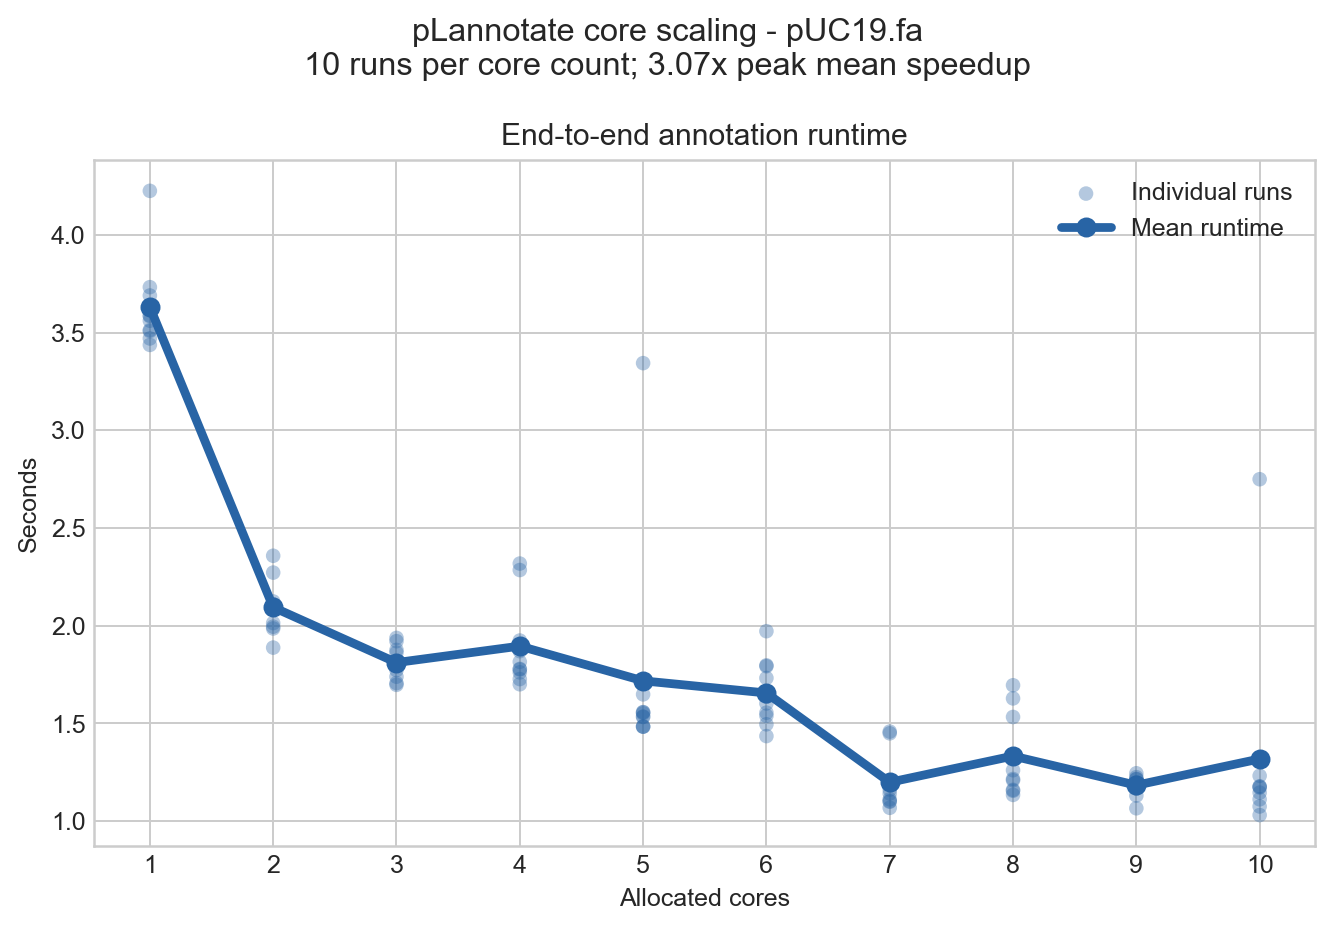
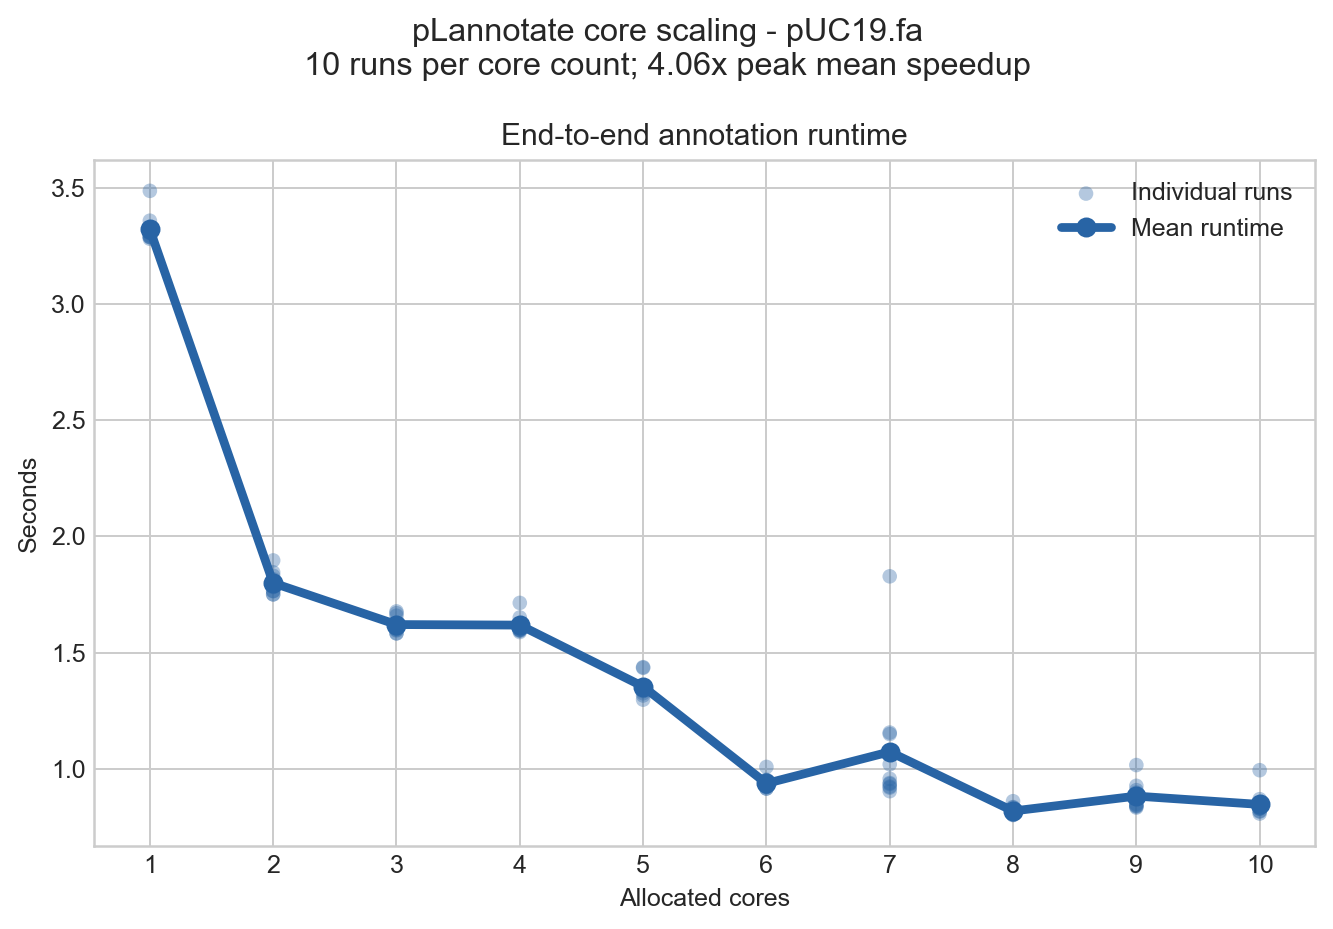
∆ core usage

diff --git a/plannotate/_concurrency.py b/plannotate/_concurrency.py
@@ -2,7 +2,7 @@
 
 import shlex
 from concurrent.futures import ThreadPoolExecutor
-from itertools import cycle, islice, repeat
+from itertools import repeat
 from typing import Any, Callable, TypeVar
 
 Result = TypeVar("Result")
@@ -36,17 +36,31 @@ def parameters_with_threads(
 
 
 def allocate_threads(sources: dict[str, dict[str, Any]], cores: int) -> list[int]:
-    """Allocate the core budget across configured annotation sources."""
+    """Allocate the core budget across configured annotation sources.
+
+    Sources run concurrently, so wall-clock time is the slowest source, not the
+    sum. Each spare core is therefore handed to whichever source is currently the
+    bottleneck -- the one with the highest projected runtime ``cost / threads`` --
+    which minimizes the maximum. A source's ``cost`` is its relative single-thread
+    runtime (see ``databases.yml``); when every source shares the default cost of
+    1.0 this degenerates to a balanced round-robin in configuration order.
+    """
     if cores < 1:
         raise ValueError("cores must be at least 1")
     if not sources:
         return []
 
+    costs = [float(config.get("cost", 1.0)) for config in sources.values()]
     allocations = [1] * len(sources)
     spare_cores = max(0, cores - len(sources))
-    source_indexes = range(len(sources))
-    for index in islice(cycle(source_indexes), spare_cores):
-        allocations[index] += 1
+    for _ in range(spare_cores):
+        # the next core is worth most to the source projected to finish last;
+        # ``cost / threads`` is that projection under near-linear thread scaling
+        bottleneck = max(
+            range(len(sources)),
+            key=lambda index: costs[index] / allocations[index],
+        )
+        allocations[bottleneck] += 1
     return allocations
 
 

diff --git a/tests/test_concurrency.py b/tests/test_concurrency.py
@@ -64,6 +64,29 @@ def test_thread_allocation_follows_configuration_order(cores, expected):
     assert _concurrency.allocate_threads(sources, cores) == expected
 
 
[email redacted](
+    ("cores", "expected"),
+    [
+        (4, [1, 1, 1, 1]),
+        (5, [2, 1, 1, 1]),
+        (6, [2, 1, 2, 1]),
+        (8, [3, 1, 3, 1]),
+        (10, [4, 1, 3, 2]),
+    ],
+)
+def test_thread_allocation_feeds_the_bottleneck_source(cores, expected):
+    # spare cores go to whichever source is projected to finish last, so the cheap
+    # source never collects threads it cannot use
+    sources = {
+        "Rfam": {"method": "infernal", "cost": 1.8},
+        "fpbase": {"method": "diamond", "cost": 0.05},
+        "swissprot": {"method": "diamond", "cost": 1.3},
+        "snapgene": {"method": "blastn", "cost": 0.6},
+    }
+
+    assert _concurrency.allocate_threads(sources, cores) == expected
+
+
 def test_thread_allocation_rejects_invalid_core_count():
     with pytest.raises(ValueError, match="cores must be at least 1"):
         _concurrency.allocate_threads({}, 0)

diff --git a/plannotate/_package_data.py b/plannotate/_package_data.py
@@ -141,6 +141,13 @@ def get_yaml(yaml_file_loc: str | Path) -> dict[str, dict[str, Any]]:
                 f"Database {database_name!r} priority must be a positive integer"
             )
 
+        cost = database.get("cost", 1.0)
+        if isinstance(cost, bool) or not isinstance(cost, (int, float)) or cost <= 0:
+            raise ValueError(
+                f"Database {database_name!r} cost must be a positive number"
+            )
+        database["cost"] = float(cost)
+
         database["parameters"] = _normalize_parameters(
             database_name, database.get("parameters", [])
         )